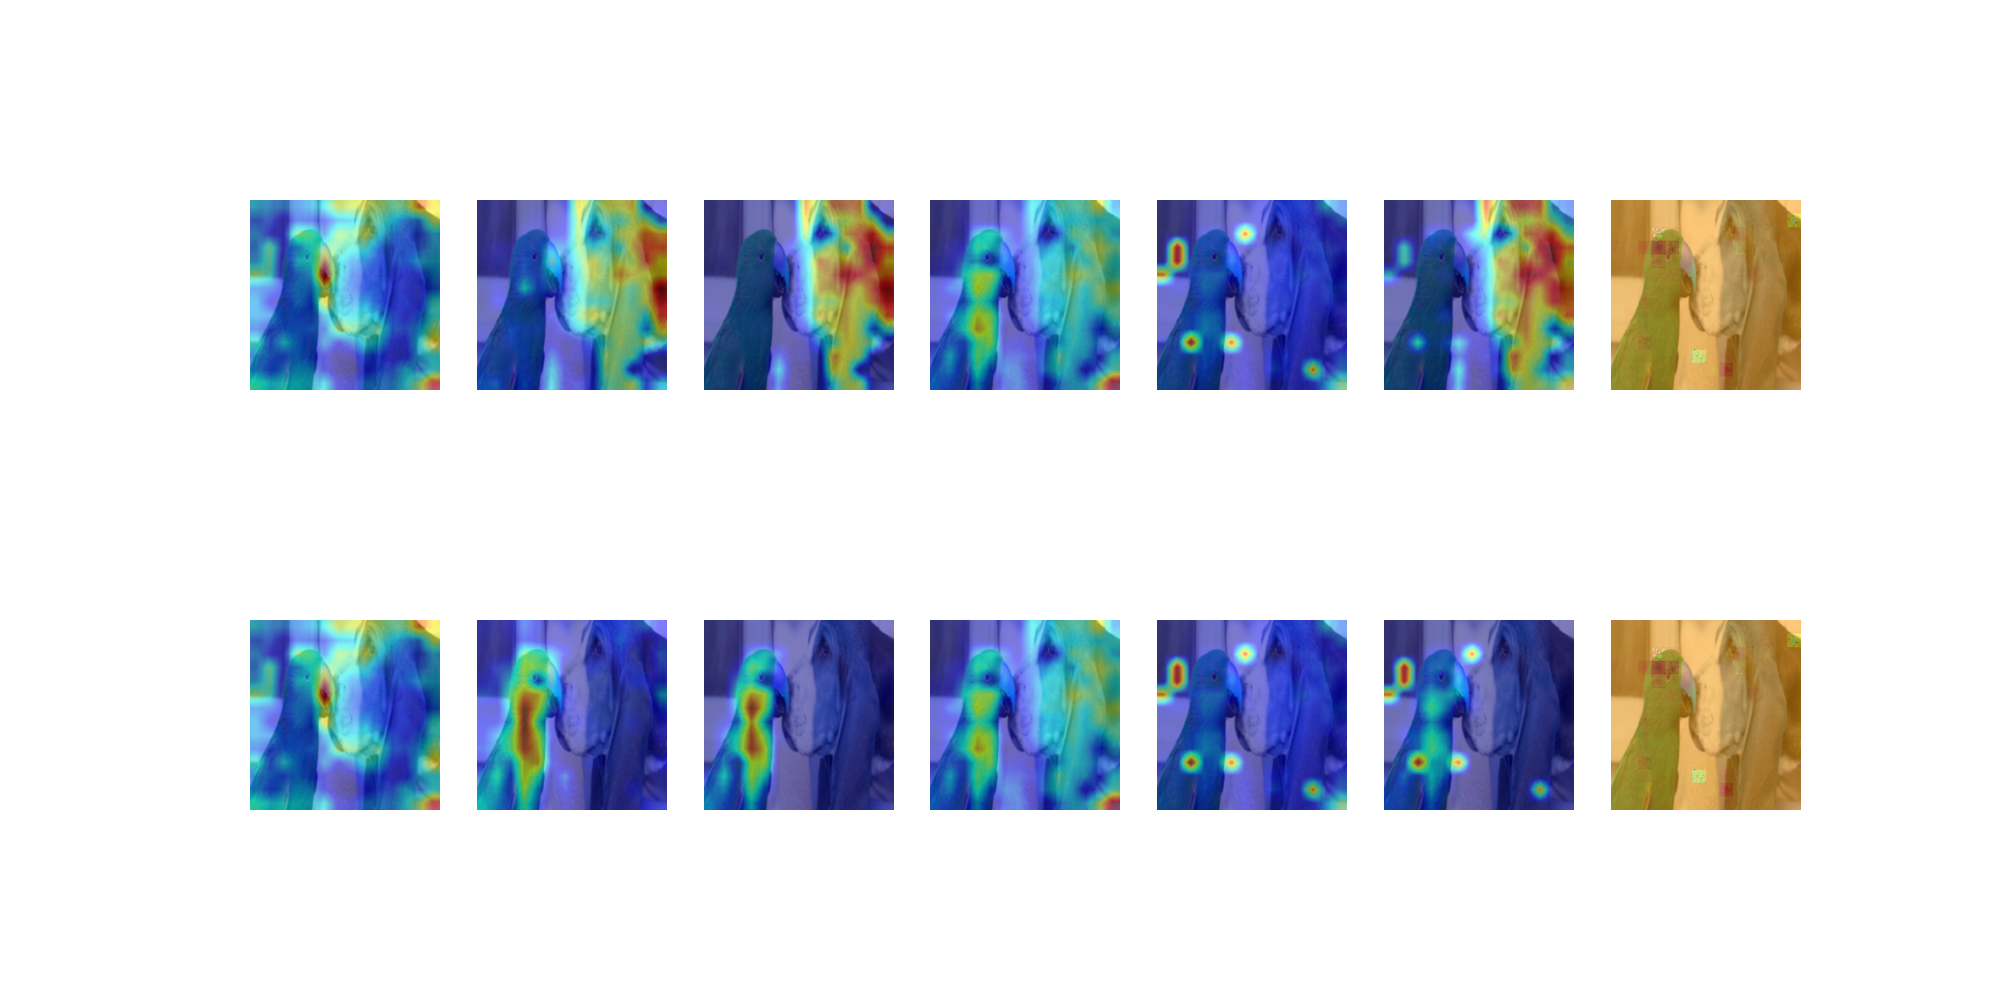
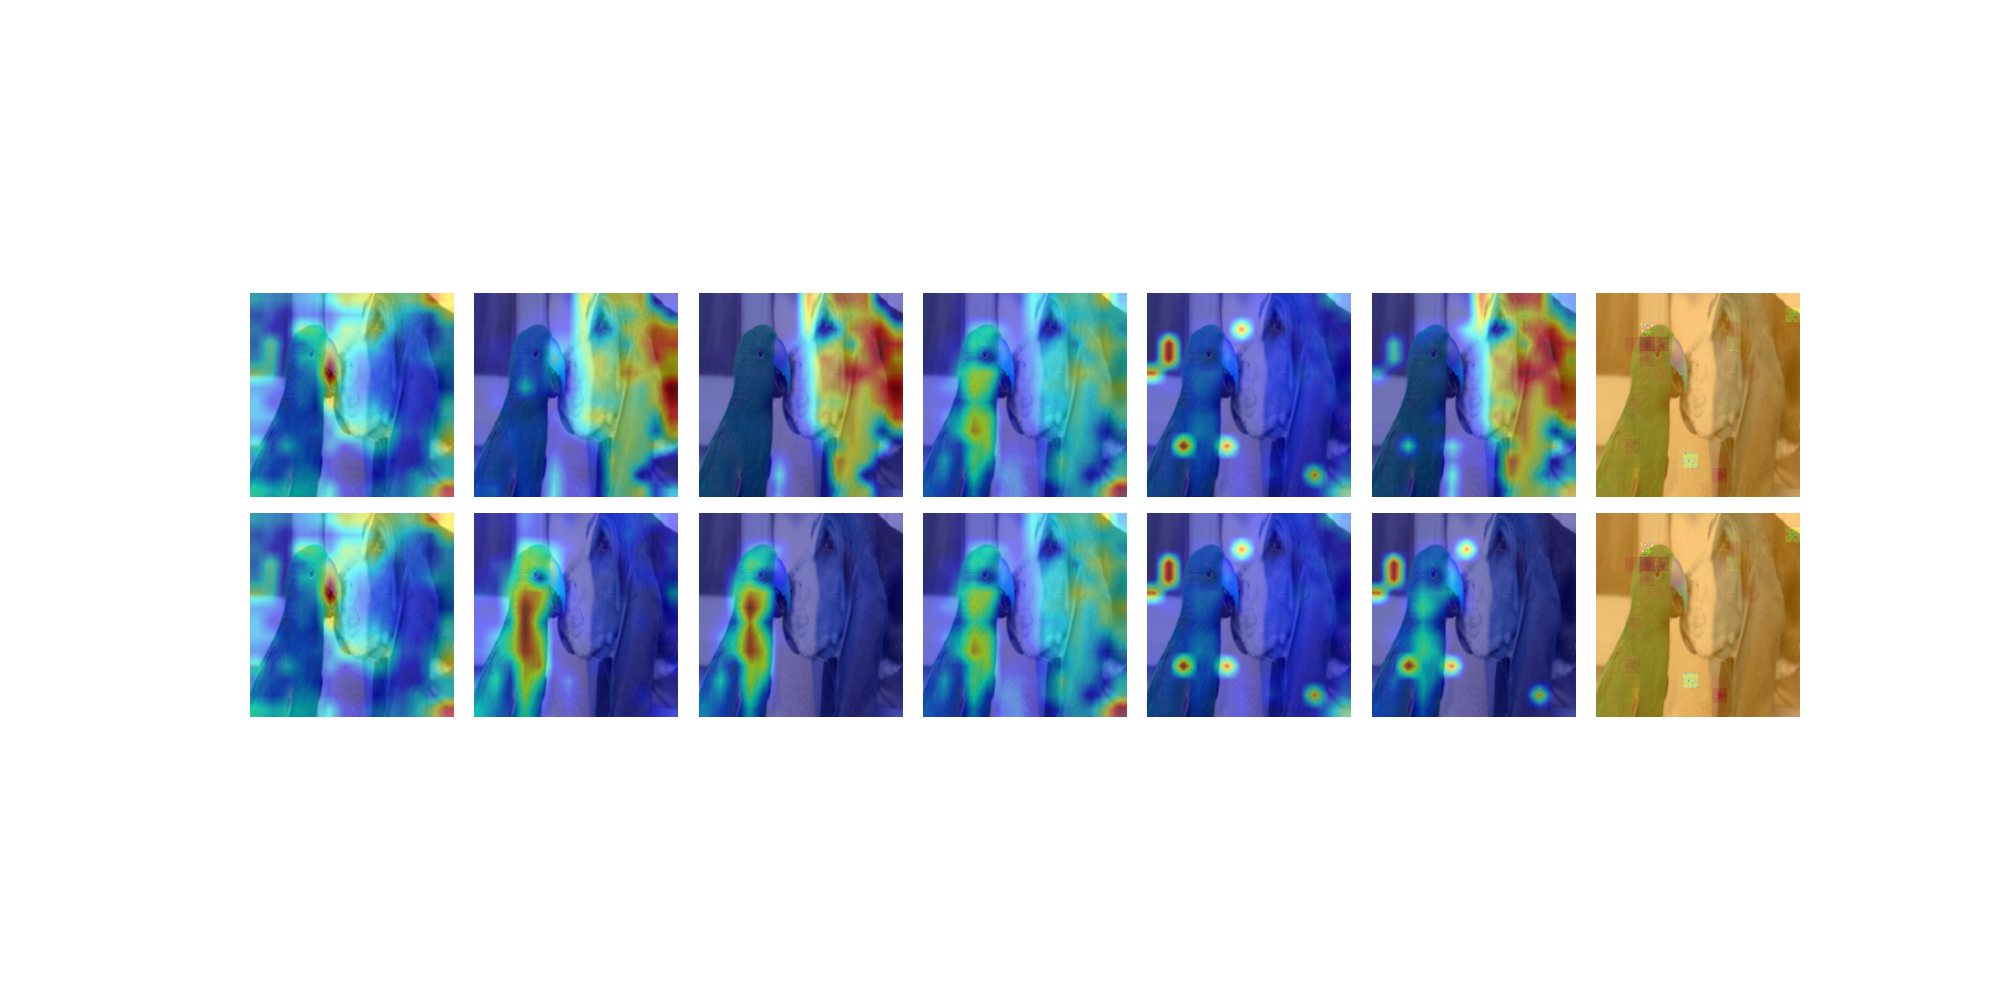
dog bird image finalized

diff --git a/visualizations_samples.py b/visualizations_samples.py
@@ -241,5 +241,5 @@ if __name__ == "__main__":
         # axs[1, i].set_title(f"{method}", fontsize=12)
         axs[1, i].axis('off')
     
-    # plt.subplots_adjust(wspace=0.1, hspace=0.1)
+    plt.subplots_adjust(wspace=0.1, hspace=-0.6)
     plt.savefig('dog_bird_sal_maps_v2.png')
